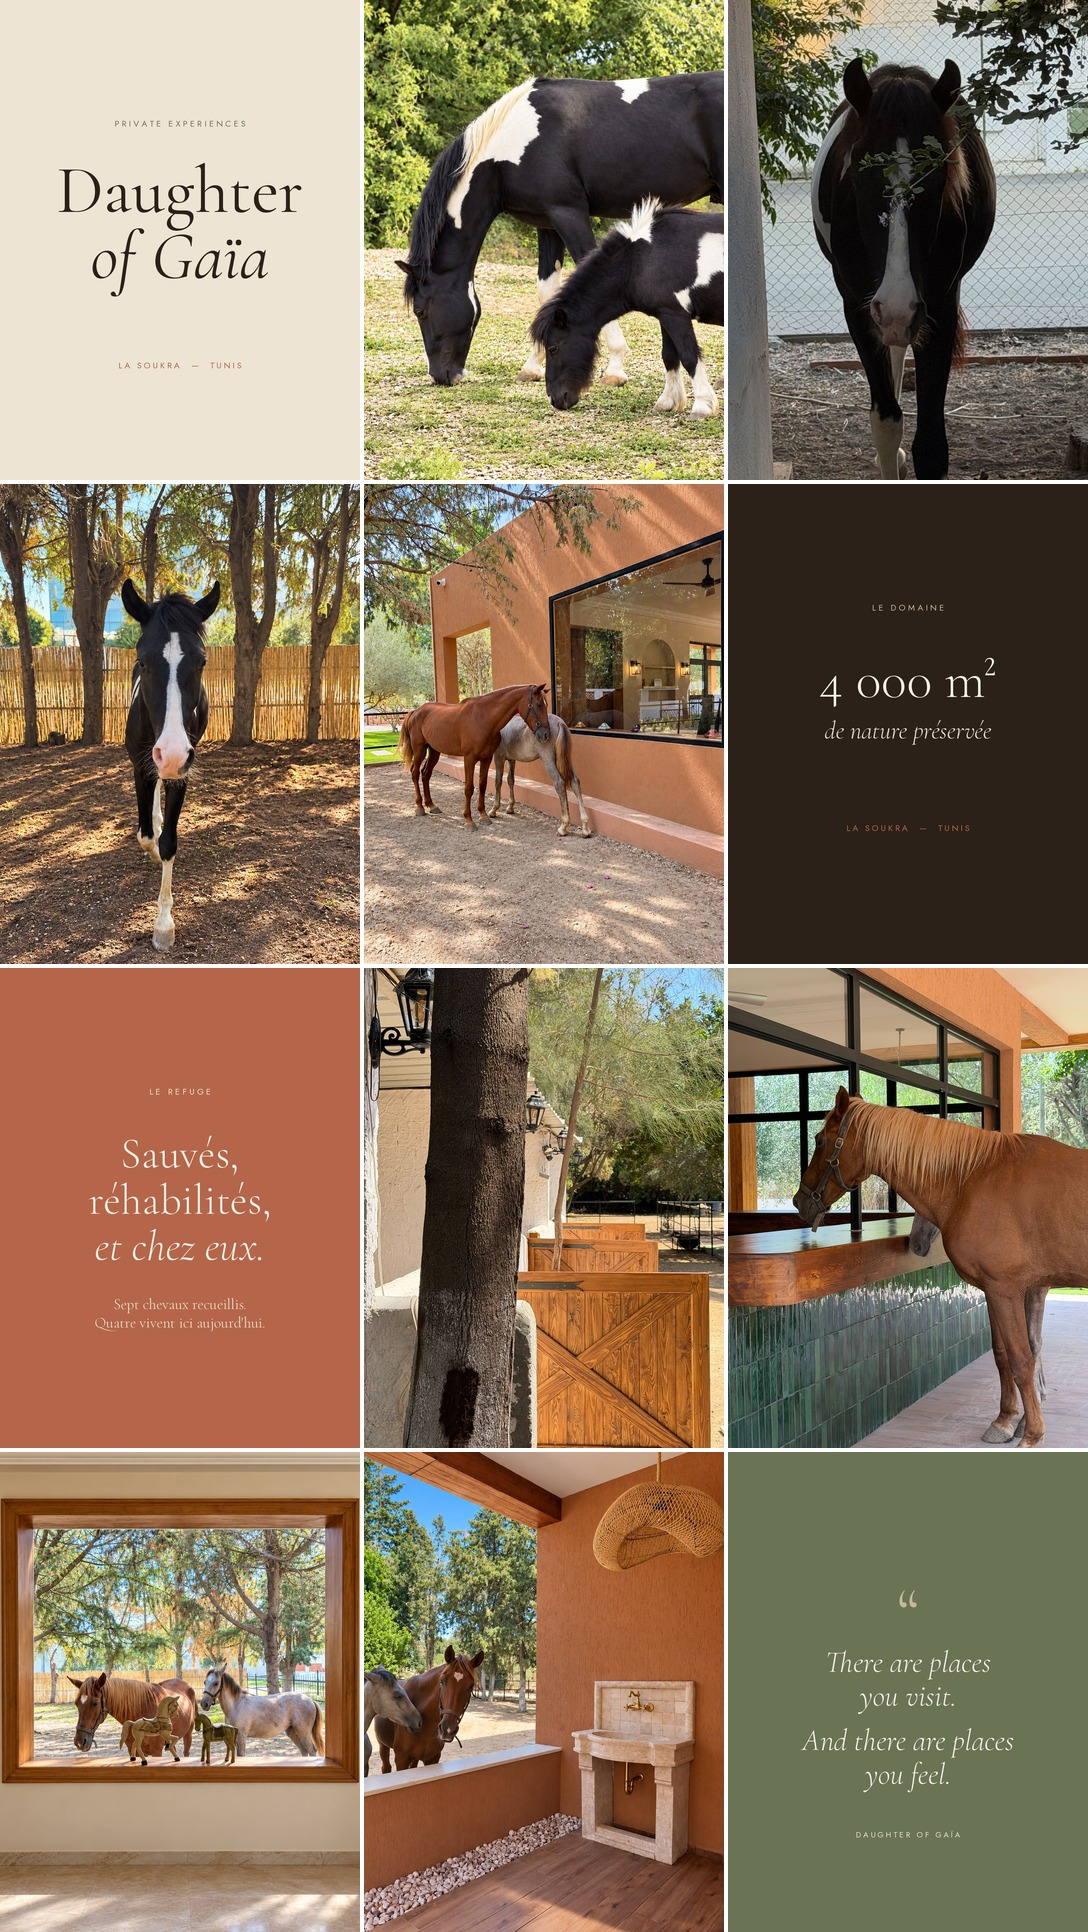
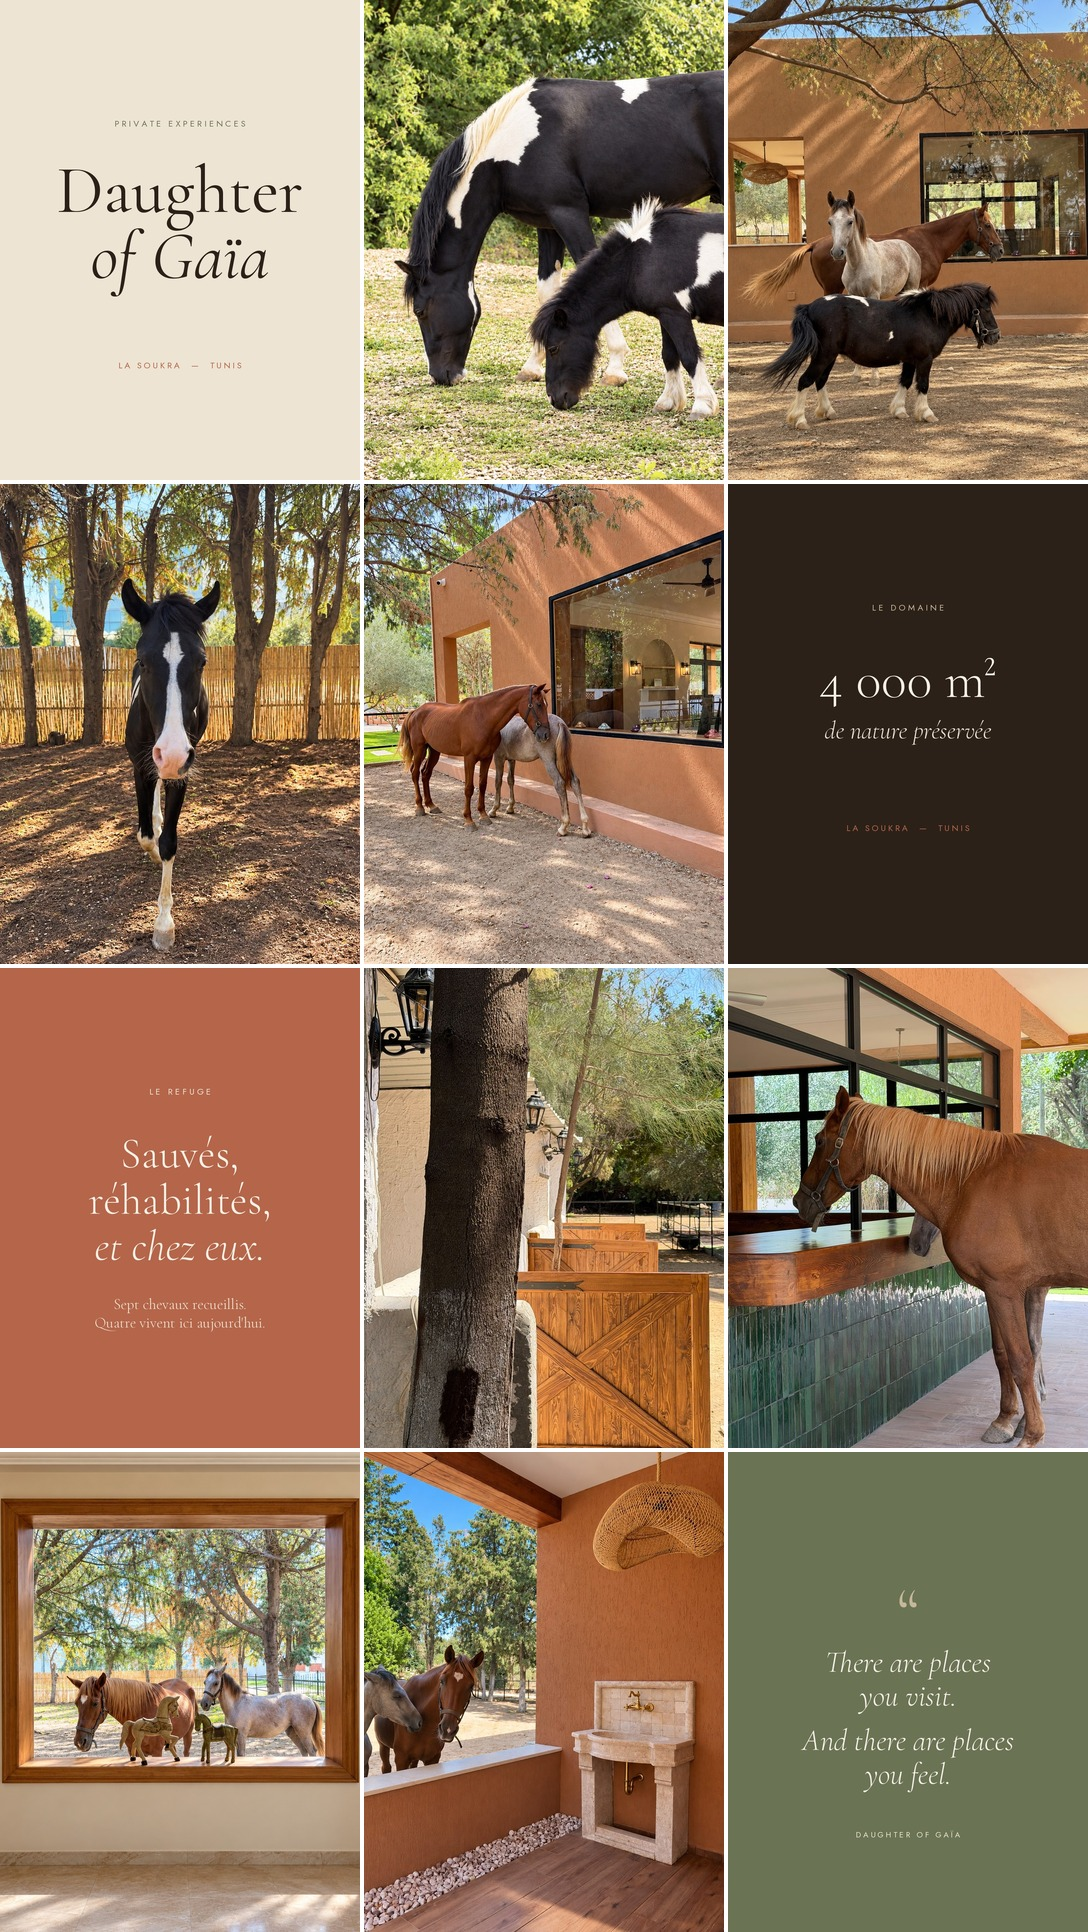
Remplace le cheval à la brindille par les trois chevaux (post 10)
Claude-Session: https://claude.ai/code/session_01MS2dviwewWZA4sauzwea3X

Changed region(s): [[0.6562, 0.0, 1.0, 0.2484]]

diff --git a/instagram/generer.py b/instagram/generer.py
@@ -198,7 +198,7 @@ LANCEMENT = [
     ("domaine", domaine),
     ("chevaux-fenetre", ("chevaux-fenetre.jpg", (0.5, 0.6))),
     ("cheval-noir-blanc", ("cheval-noir-blanc.jpg", (0.5, 0.45))),
-    ("cheval-brindille", ("espace-couvert.jpg", (0.5, 0.42))),
+    ("trois-chevaux", ("trois-chevaux.jpg", (0.5, 0.6))),
     ("chevaux-pie-broutent", ("chevaux-pie-broutent.jpg", (0.5, 0.72))),
     ("daughter-of-gaia", nom_du_projet),
 ]

diff --git a/instagram/TEXTES.md b/instagram/TEXTES.md
@@ -142,9 +142,9 @@ Le long du mur ocre.
 Il s'avance. Vous aussi ?
 ```
 
-**10 — `10-cheval-brindille.jpg`**
+**10 — `10-trois-chevaux.jpg`**
 ```
-Il a trouvé son bouquet. 🌿
+Ils sont chez eux.
 ```
 
 **11 — `11-chevaux-pie-broutent.jpg`**
